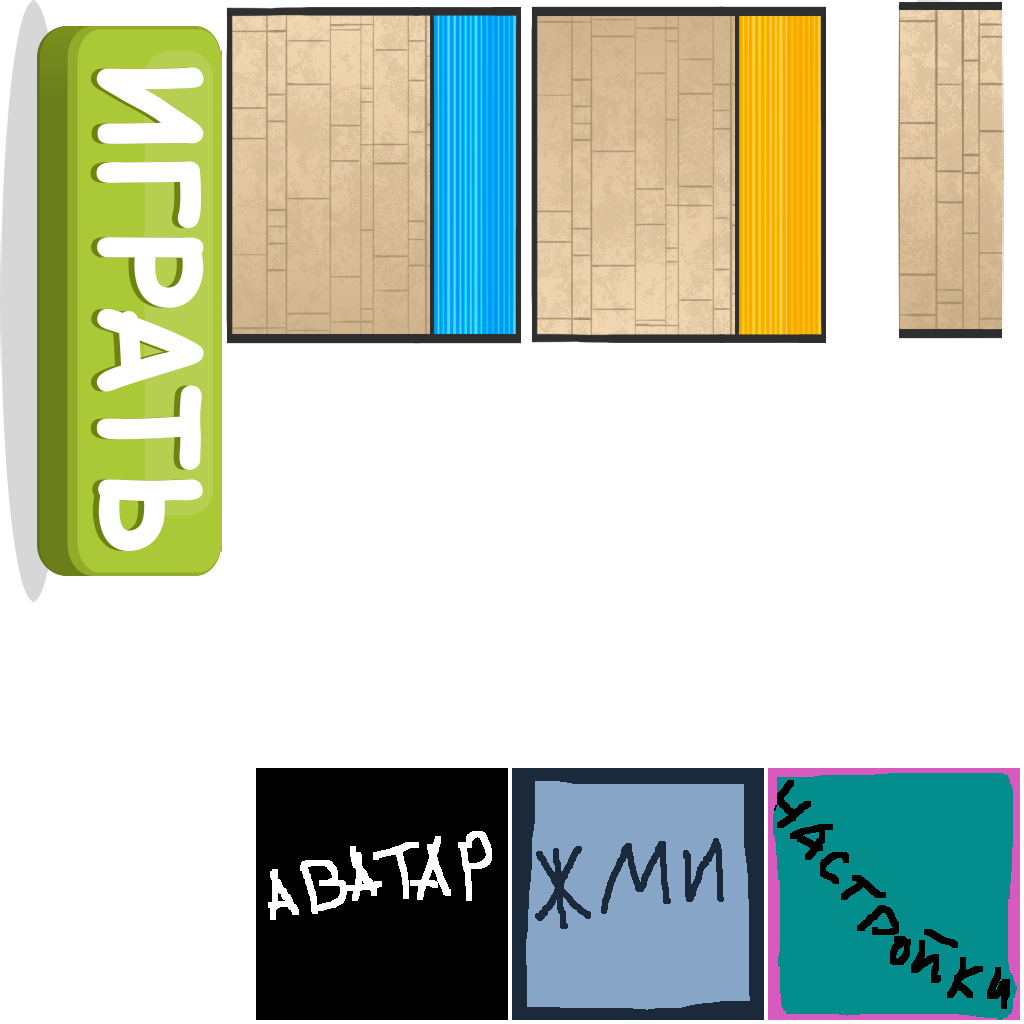
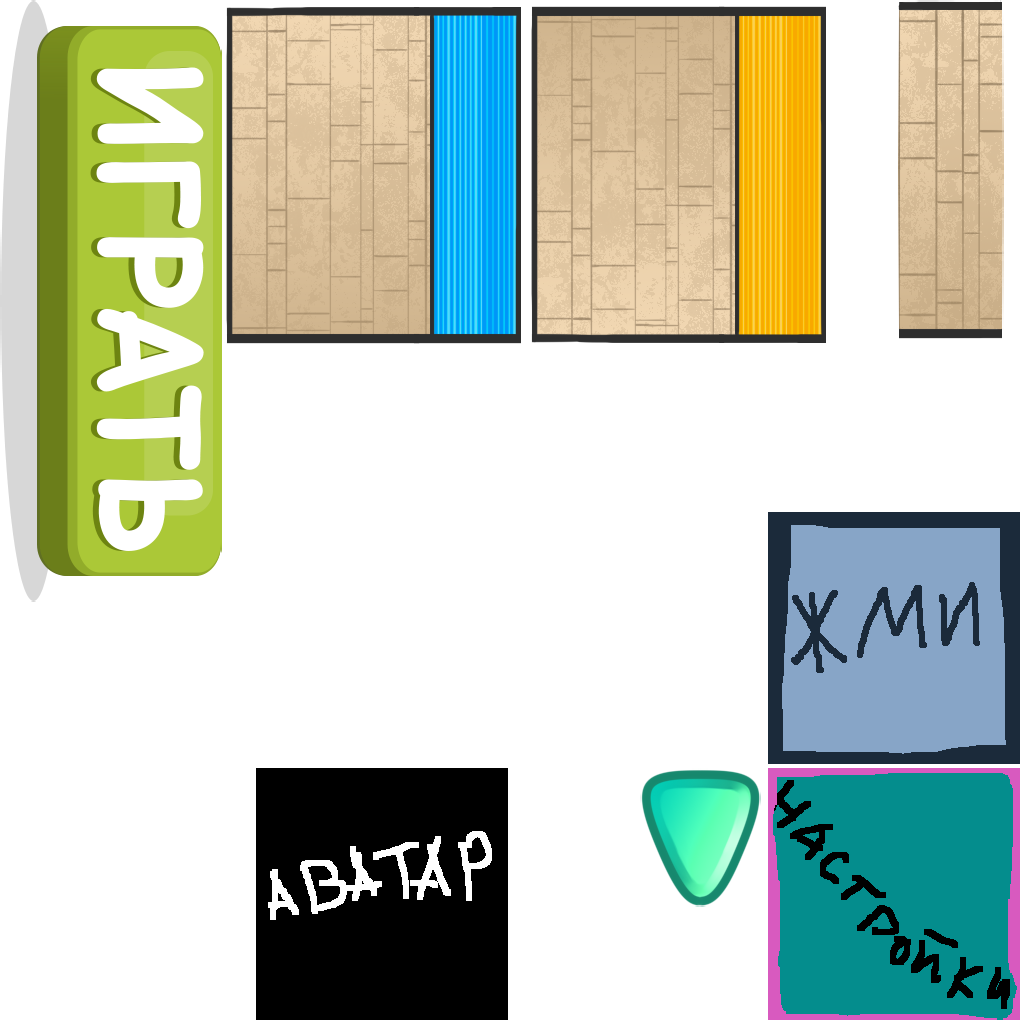
Add files via upload

Changed region(s): [[0.75, 0.5, 1.0, 0.75], [0.5, 0.75, 0.75, 1.0]]

diff --git a/scripts/c3runtime.js b/scripts/c3runtime.js
@@ -6361,12 +6361,12 @@ self.C3_GetObjectRefTable = function () {
 		C3.Plugins.System.Cnds.OnLayoutStart,
 		C3.Plugins.Touch.Cnds.OnTouchEnd,
 		C3.Plugins.System.Acts.SetBoolVar,
+		C3.Plugins.Sprite.Acts.Destroy,
 		C3.Plugins.System.Cnds.Compare,
 		C3.Plugins.System.Acts.SetVar,
 		C3.Plugins.System.Cnds.PickByComparison,
 		C3.Plugins.Arr.Acts.Clear,
 		C3.Plugins.System.Cnds.ForEach,
-		C3.Plugins.Sprite.Acts.Destroy,
 		C3.Plugins.Text.Acts.Destroy,
 		C3.Plugins.Arr.Acts.SetXY,
 		C3.Plugins.System.Cnds.Else,
@@ -6383,6 +6383,7 @@ self.C3_GetObjectRefTable = function () {
 		C3.Plugins.System.Exps.len,
 		C3.Plugins.Text.Exps.Text,
 		C3.Plugins.System.Acts.AddVar,
+		C3.Plugins.System.Cnds.PickLastCreated,
 		C3.Behaviors.MoveTo.Acts.MoveToPosition,
 		C3.Plugins.Text.Exps.X,
 		C3.Plugins.Text.Exps.Y,
@@ -6391,7 +6392,6 @@ self.C3_GetObjectRefTable = function () {
 		C3.Plugins.Sprite.Acts.SetInstanceVar,
 		C3.Plugins.System.Acts.StopLoop,
 		C3.Plugins.System.Acts.CreateObject,
-		C3.Plugins.System.Cnds.PickLastCreated,
 		C3.Plugins.Text.Acts.SetSize,
 		C3.Plugins.Text.Acts.SetFontSize,
 		C3.Plugins.System.Exps.random,
@@ -6408,6 +6408,8 @@ self.C3_GetObjectRefTable = function () {
 		C3.Plugins.Json.Exps.Get,
 		C3.Plugins.System.Exps.mid,
 		C3.Plugins.System.Acts.SetFunctionReturnValue,
+		C3.Plugins.Sprite.Acts.RotateTowardPosition,
+		C3.Plugins.Sprite.Acts.MoveForward,
 		C3.Plugins.Sprite.Acts.LoadURL,
 		C3.Plugins.Eponesh_GameScore.Exps.PlayerAvatar,
 		C3.Plugins.Eponesh_GameScore.Acts.PlayerSync,
@@ -6456,6 +6458,8 @@ self.C3_JsPropNameTable = [
 	{Слова: 0},
 	{БашняИгрока: 0},
 	{БашняПротивника: 0},
+	{НомерСтрелкиВСлове: 0},
+	{Стрелка: 0},
 	{ОтступМеждуБуквами: 0},
 	{РазмерСтороныБуквы: 0},
 	{true: 0},
@@ -6476,6 +6480,7 @@ self.C3_JsPropNameTable = [
 	{ReturnФункции: 0},
 	{СловоДляСравнения: 0},
 	{ЕстьЛиРасхождение: 0},
+	{СтрелкаСуществует: 0},
 	{МестоИгрока: 0},
 	{МестоОтображаемогоИгрокаВТаблице: 0}
 ];
@@ -6761,6 +6766,9 @@ self.C3_ExpressionFuncs = [
 			const v1 = p._GetNode(1).GetVar();
 			return () => (Math.round(((1.1631 * Math.pow(f0(v1.GetValue()), 2.8407)) / 10)) * 100);
 		},
+		() => 360,
+		() => 50,
+		() => 80,
 		() => "main",
 		() => "default",
 		() => 99,
